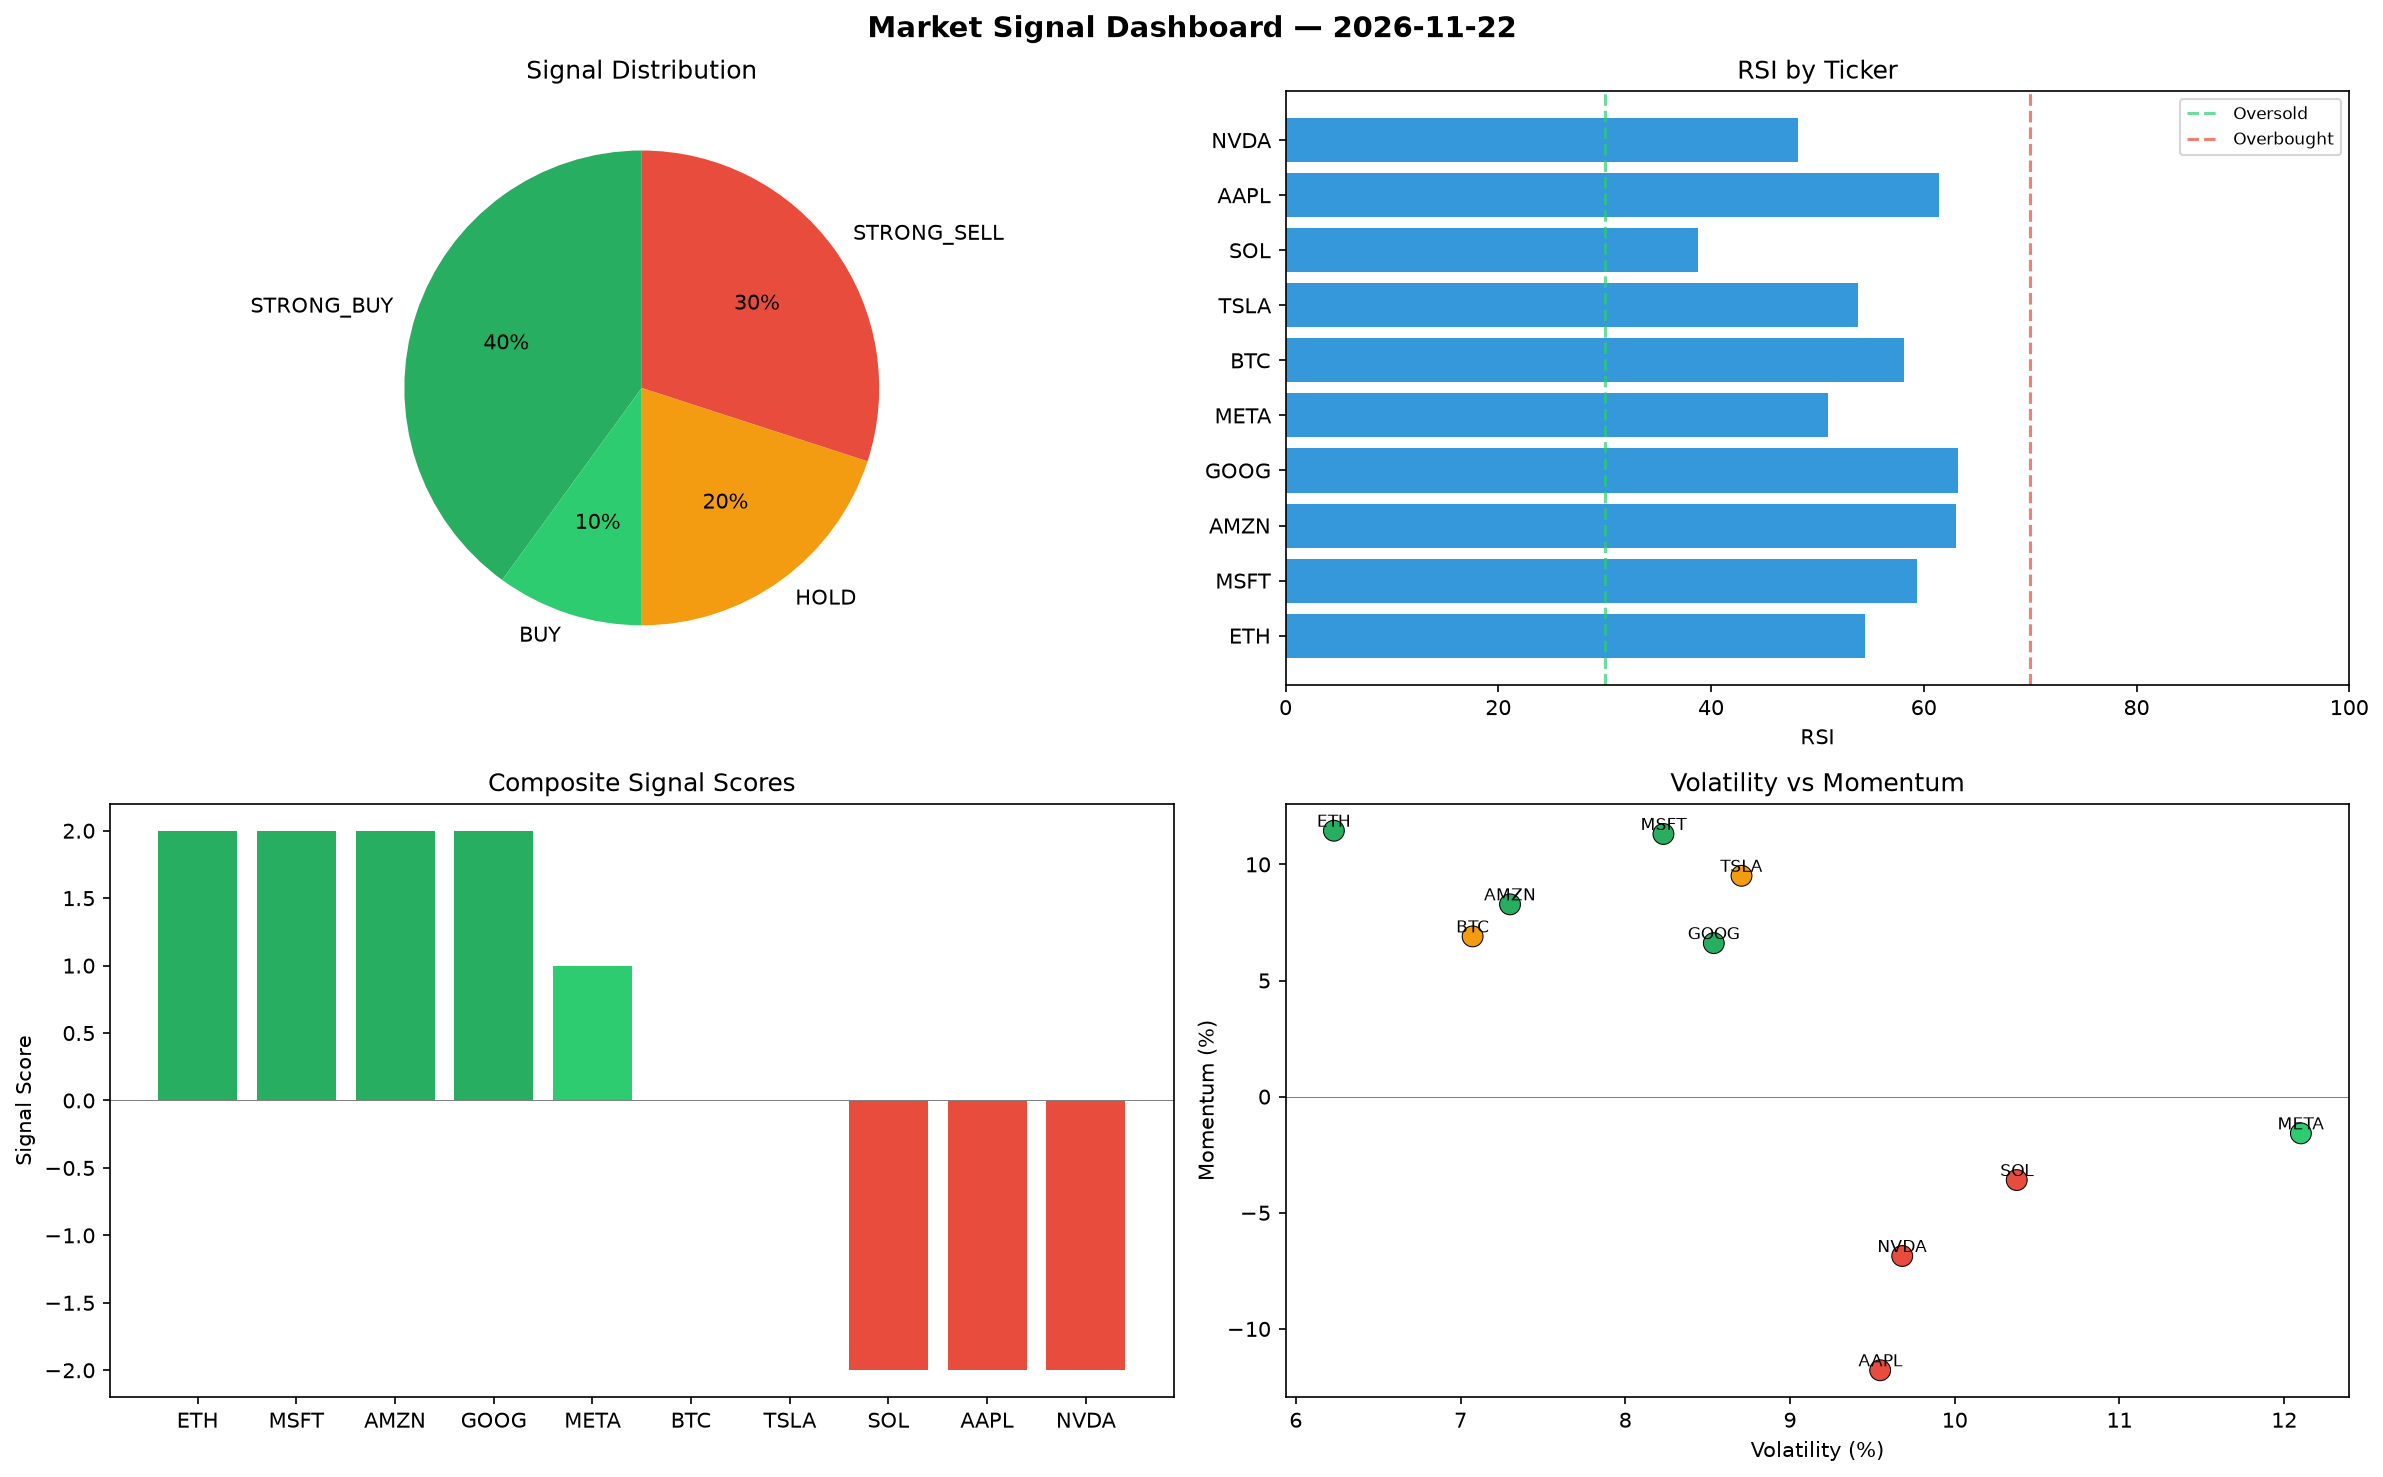
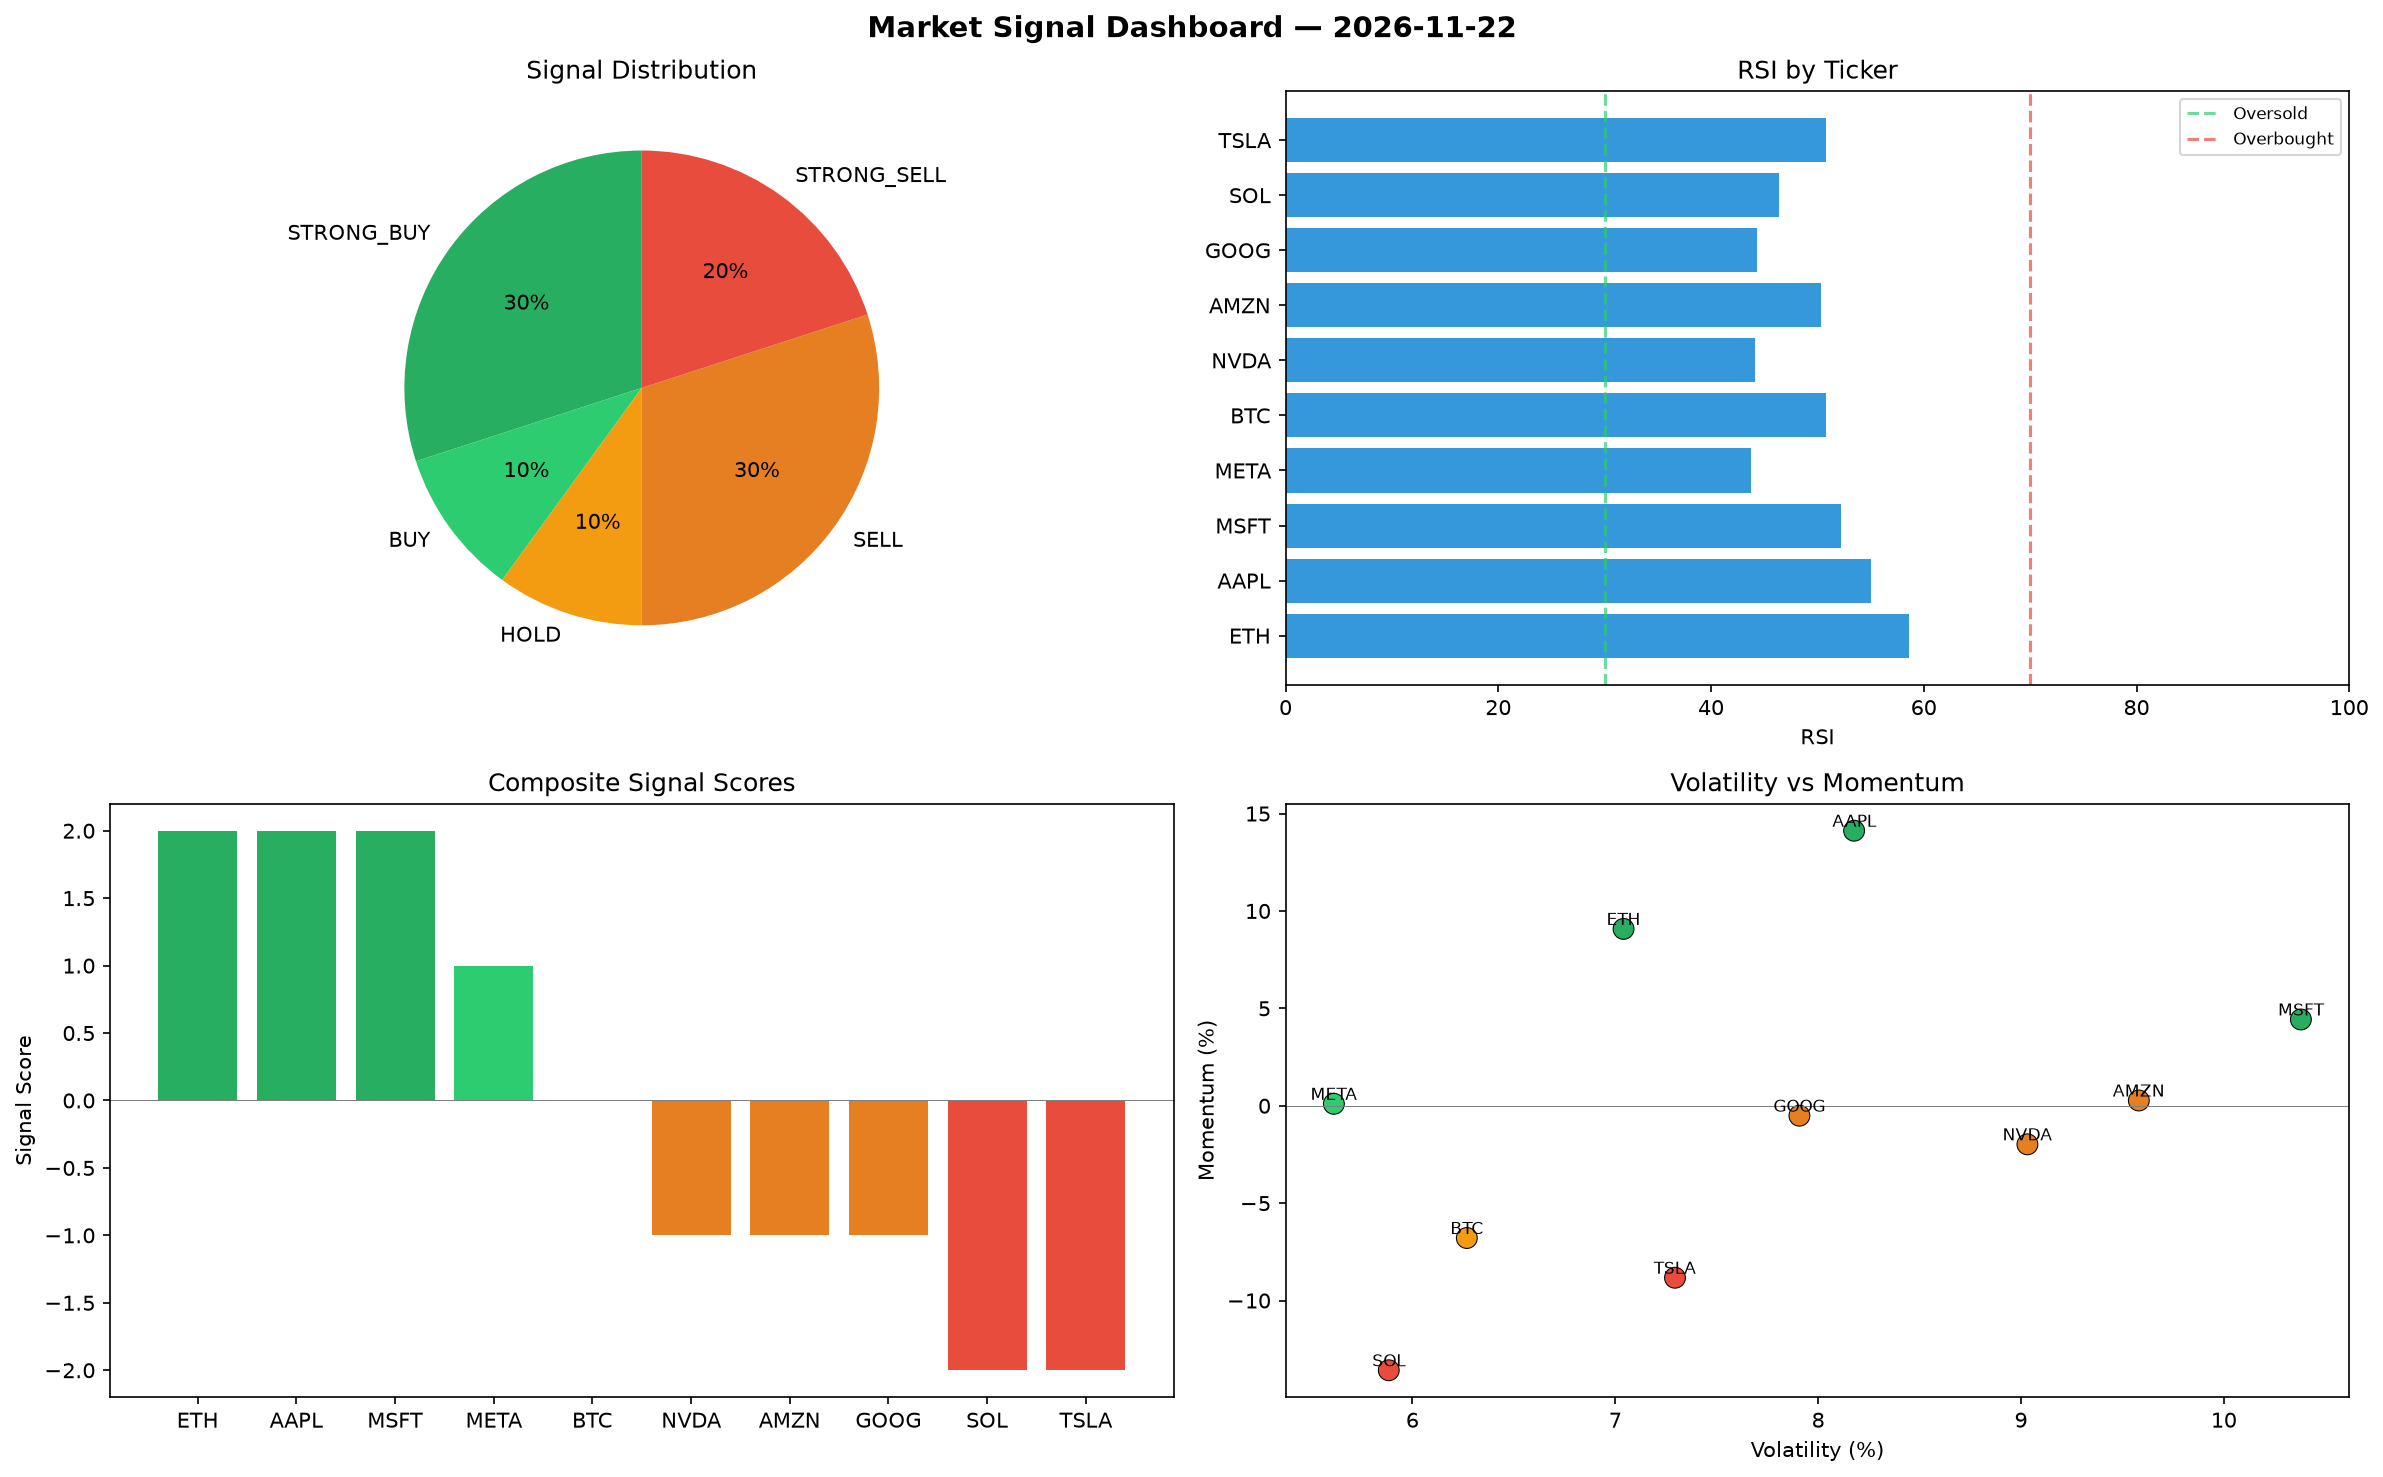
automated-bots: market signals 2026-11-22T10:03

diff --git a/logs/2026-11-22.md b/logs/2026-11-22.md
@@ -1,6 +1,6 @@
 # Market Signal Report — 2026-11-22
 
-**Run ID:** `a67e181f4a` | **Buy:** 5 | **Sell:** 3 | **Hold:** 2
+**Run ID:** `ce4aa564bb` | **Buy:** 4 | **Sell:** 5 | **Hold:** 1
 
 ![Dashboard](2026-11-22_dashboard.png)
 
@@ -8,28 +8,28 @@
 
 | Ticker | Price | Signal | Score | RSI | Momentum | Confidence |
 |--------|-------|--------|-------|-----|----------|------------|
-| ETH | $1589.02 | **STRONG_BUY** | 2 | 54.5 | 0.1145 | 0.5 |
-| MSFT | $3121.32 | **STRONG_BUY** | 2 | 59.41 | 0.1131 | 0.5 |
-| AMZN | $4592.08 | **STRONG_BUY** | 2 | 63.04 | 0.0828 | 0.5 |
-| GOOG | $107.64 | **STRONG_BUY** | 2 | 63.19 | 0.0661 | 0.5 |
-| META | $1515.78 | **BUY** | 1 | 51.01 | -0.0158 | 0.25 |
-| BTC | $3060.18 | **HOLD** | 0 | 58.12 | 0.069 | 0.0 |
-| TSLA | $4199.79 | **HOLD** | 0 | 53.81 | 0.0951 | 0.0 |
-| SOL | $3902.66 | **STRONG_SELL** | -2 | 38.8 | -0.0359 | 0.5 |
-| AAPL | $980.34 | **STRONG_SELL** | -2 | 61.43 | -0.1178 | 0.5 |
-| NVDA | $1085.21 | **STRONG_SELL** | -2 | 48.16 | -0.0686 | 0.5 |
+| ETH | $3022.7 | **STRONG_BUY** | 2 | 58.63 | 0.0908 | 0.5 |
+| AAPL | $2091.3 | **STRONG_BUY** | 2 | 55.04 | 0.1412 | 0.5 |
+| MSFT | $934.59 | **STRONG_BUY** | 2 | 52.18 | 0.0443 | 0.5 |
+| META | $1683.01 | **BUY** | 1 | 43.74 | 0.001 | 0.25 |
+| BTC | $2830.64 | **HOLD** | 0 | 50.85 | -0.0679 | 0.0 |
+| NVDA | $2333.55 | **SELL** | -1 | 44.1 | -0.0198 | 0.25 |
+| AMZN | $3761.96 | **SELL** | -1 | 50.37 | 0.0027 | 0.25 |
+| GOOG | $4801.83 | **SELL** | -1 | 44.35 | -0.0051 | 0.25 |
+| SOL | $3150.36 | **STRONG_SELL** | -2 | 46.38 | -0.1358 | 0.5 |
+| TSLA | $3938.38 | **STRONG_SELL** | -2 | 50.82 | -0.0883 | 0.5 |
 
 ## Delta vs Yesterday
 
 | Ticker | Today | Yesterday | Price Change | Signal Changed |
 |--------|-------|-----------|-------------|----------------|
-| ETH | STRONG_BUY | SELL | 📈 8.16% | ⚠ YES |
-| MSFT | STRONG_BUY | STRONG_BUY | 📉 -39.2% | — |
-| AMZN | STRONG_BUY | SELL | 📈 4.59% | ⚠ YES |
-| GOOG | STRONG_BUY | STRONG_SELL | 📉 -87.56% | ⚠ YES |
-| META | BUY | STRONG_BUY | 📉 -24.92% | ⚠ YES |
-| BTC | HOLD | BUY | 📈 56.91% | ⚠ YES |
-| TSLA | HOLD | SELL | 📈 100.6% | ⚠ YES |
-| SOL | STRONG_SELL | HOLD | 📈 9632.32% | ⚠ YES |
-| AAPL | STRONG_SELL | HOLD | 📉 -32.02% | ⚠ YES |
-| NVDA | STRONG_SELL | STRONG_BUY | 📉 -57.92% | ⚠ YES |
+| ETH | STRONG_BUY | SELL | 📈 105.74% | ⚠ YES |
+| AAPL | STRONG_BUY | HOLD | 📈 45.01% | ⚠ YES |
+| MSFT | STRONG_BUY | STRONG_BUY | 📉 -81.79% | — |
+| META | BUY | STRONG_BUY | 📉 -16.64% | ⚠ YES |
+| BTC | HOLD | BUY | 📈 45.14% | ⚠ YES |
+| NVDA | SELL | STRONG_BUY | 📉 -9.51% | ⚠ YES |
+| AMZN | SELL | SELL | 📉 -14.32% | — |
+| GOOG | SELL | STRONG_SELL | 📈 454.85% | ⚠ YES |
+| SOL | STRONG_SELL | HOLD | 📈 7756.26% | ⚠ YES |
+| TSLA | STRONG_SELL | SELL | 📈 88.11% | ⚠ YES |
